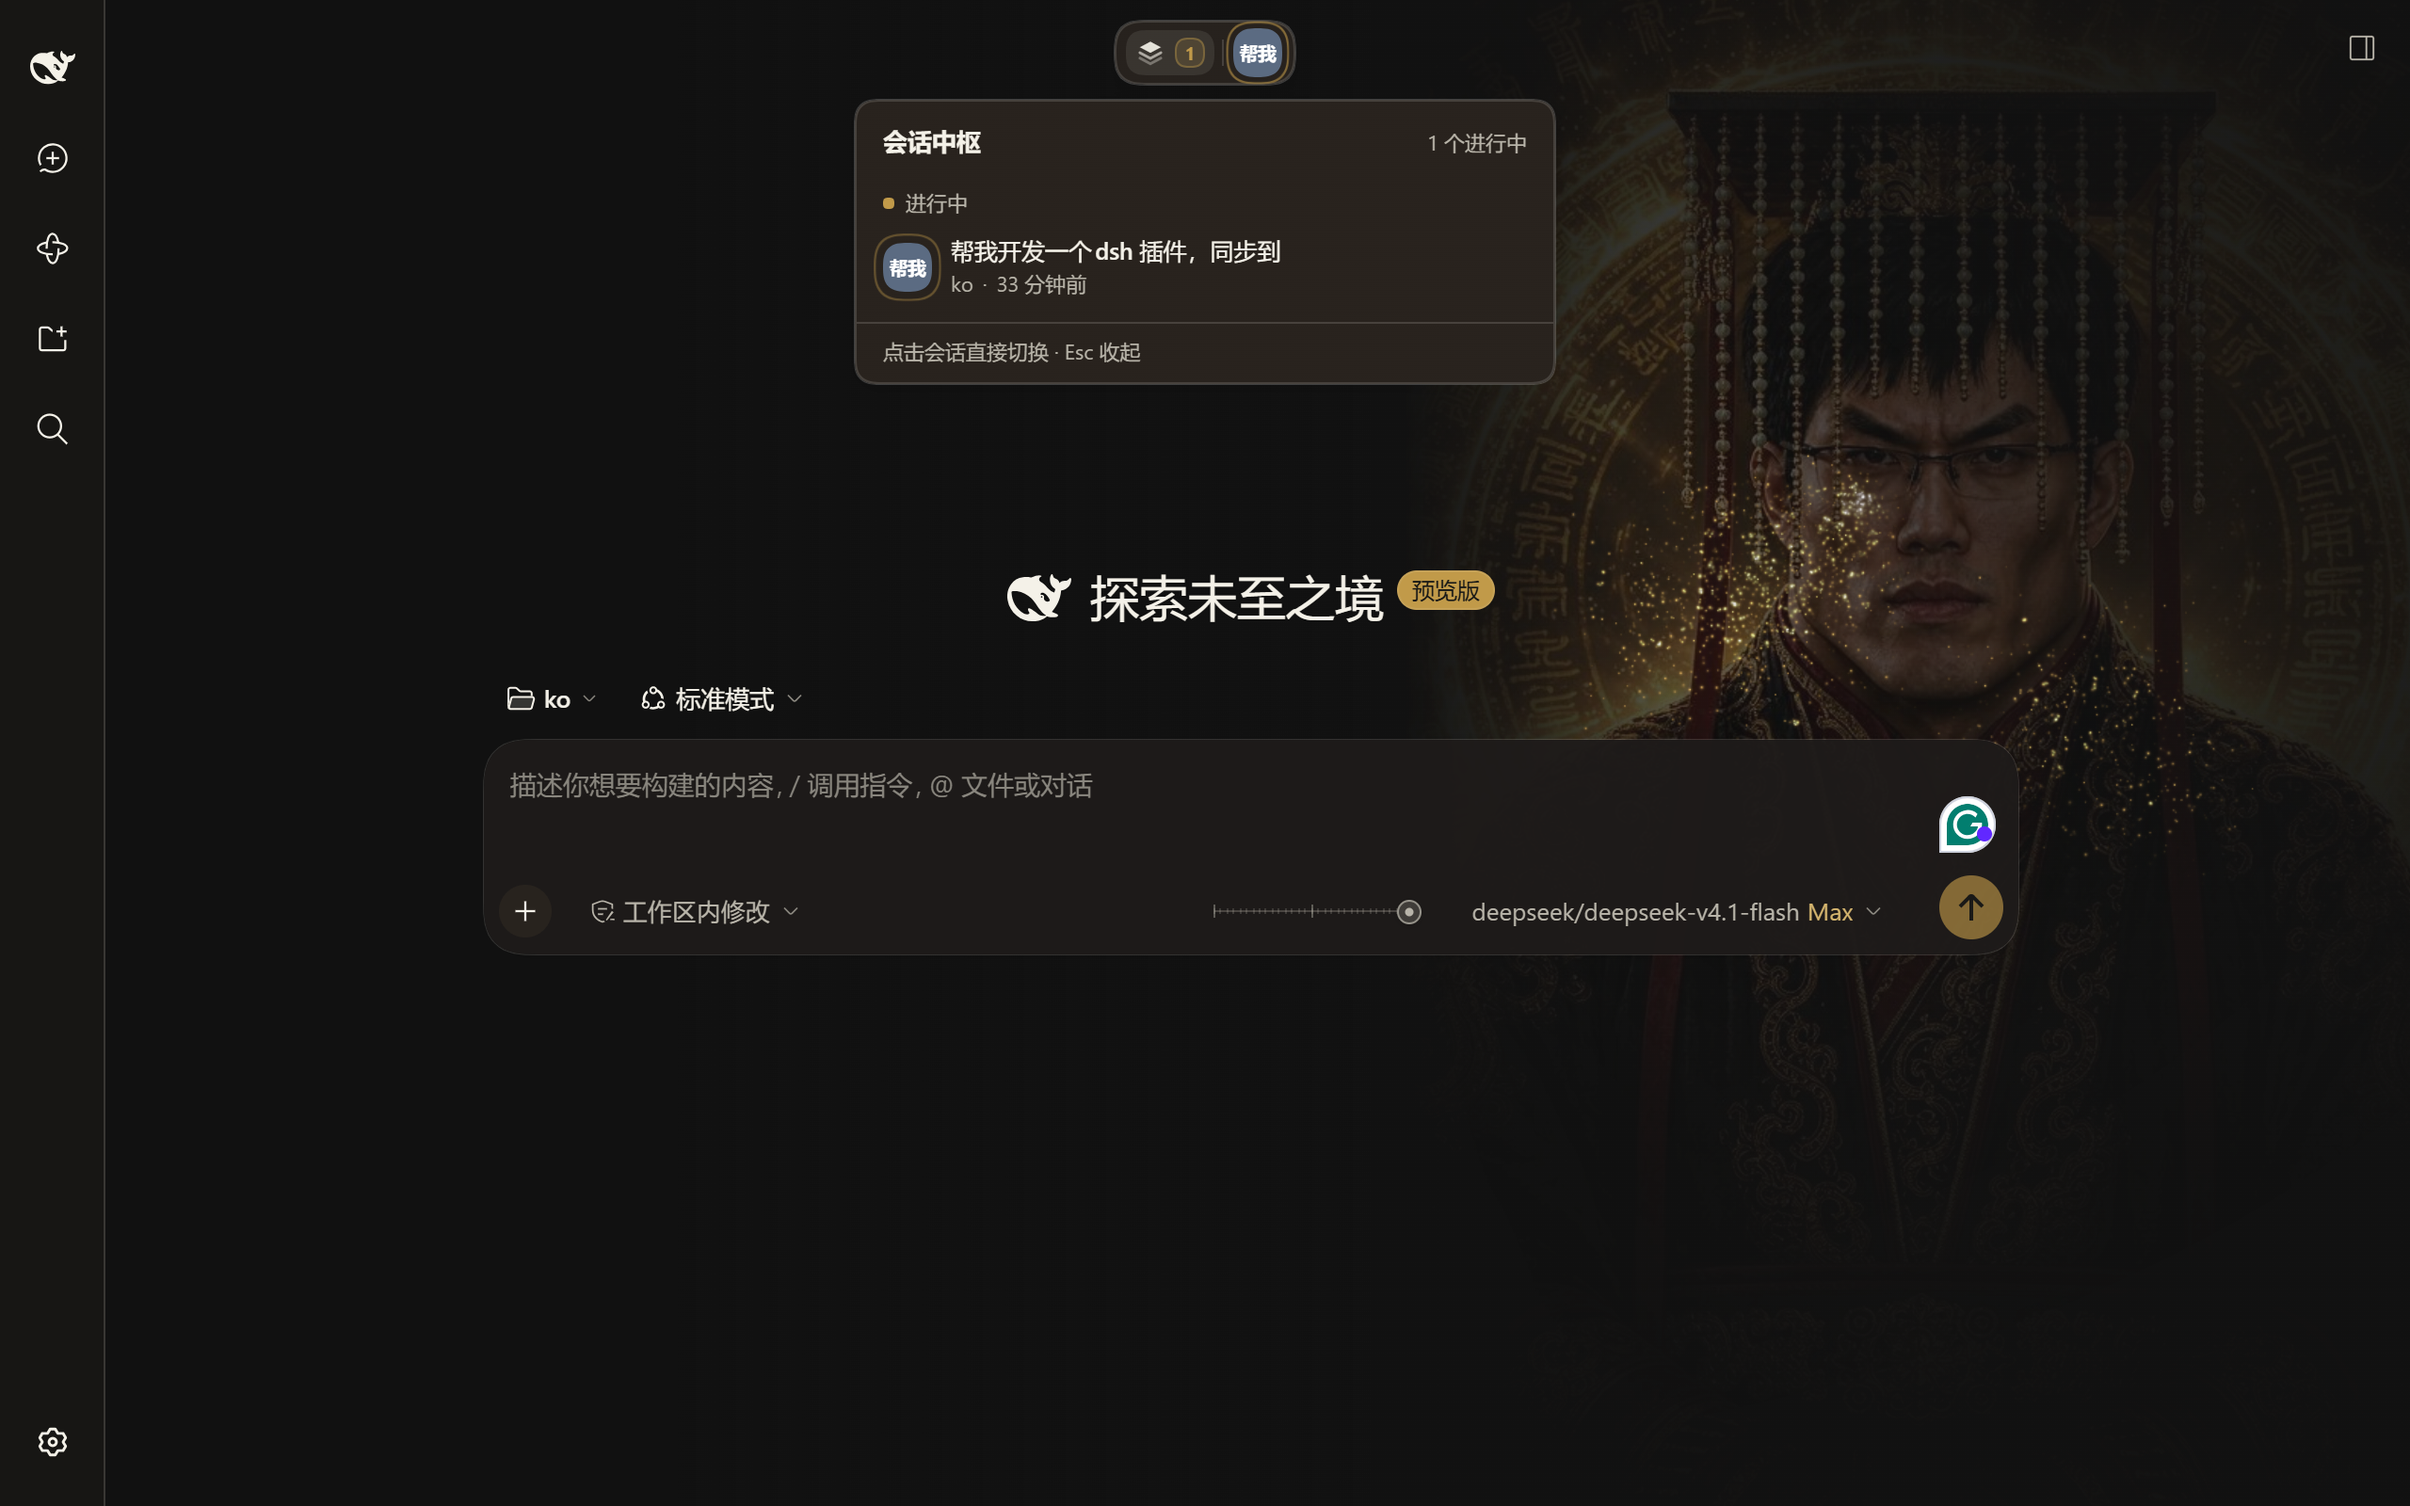
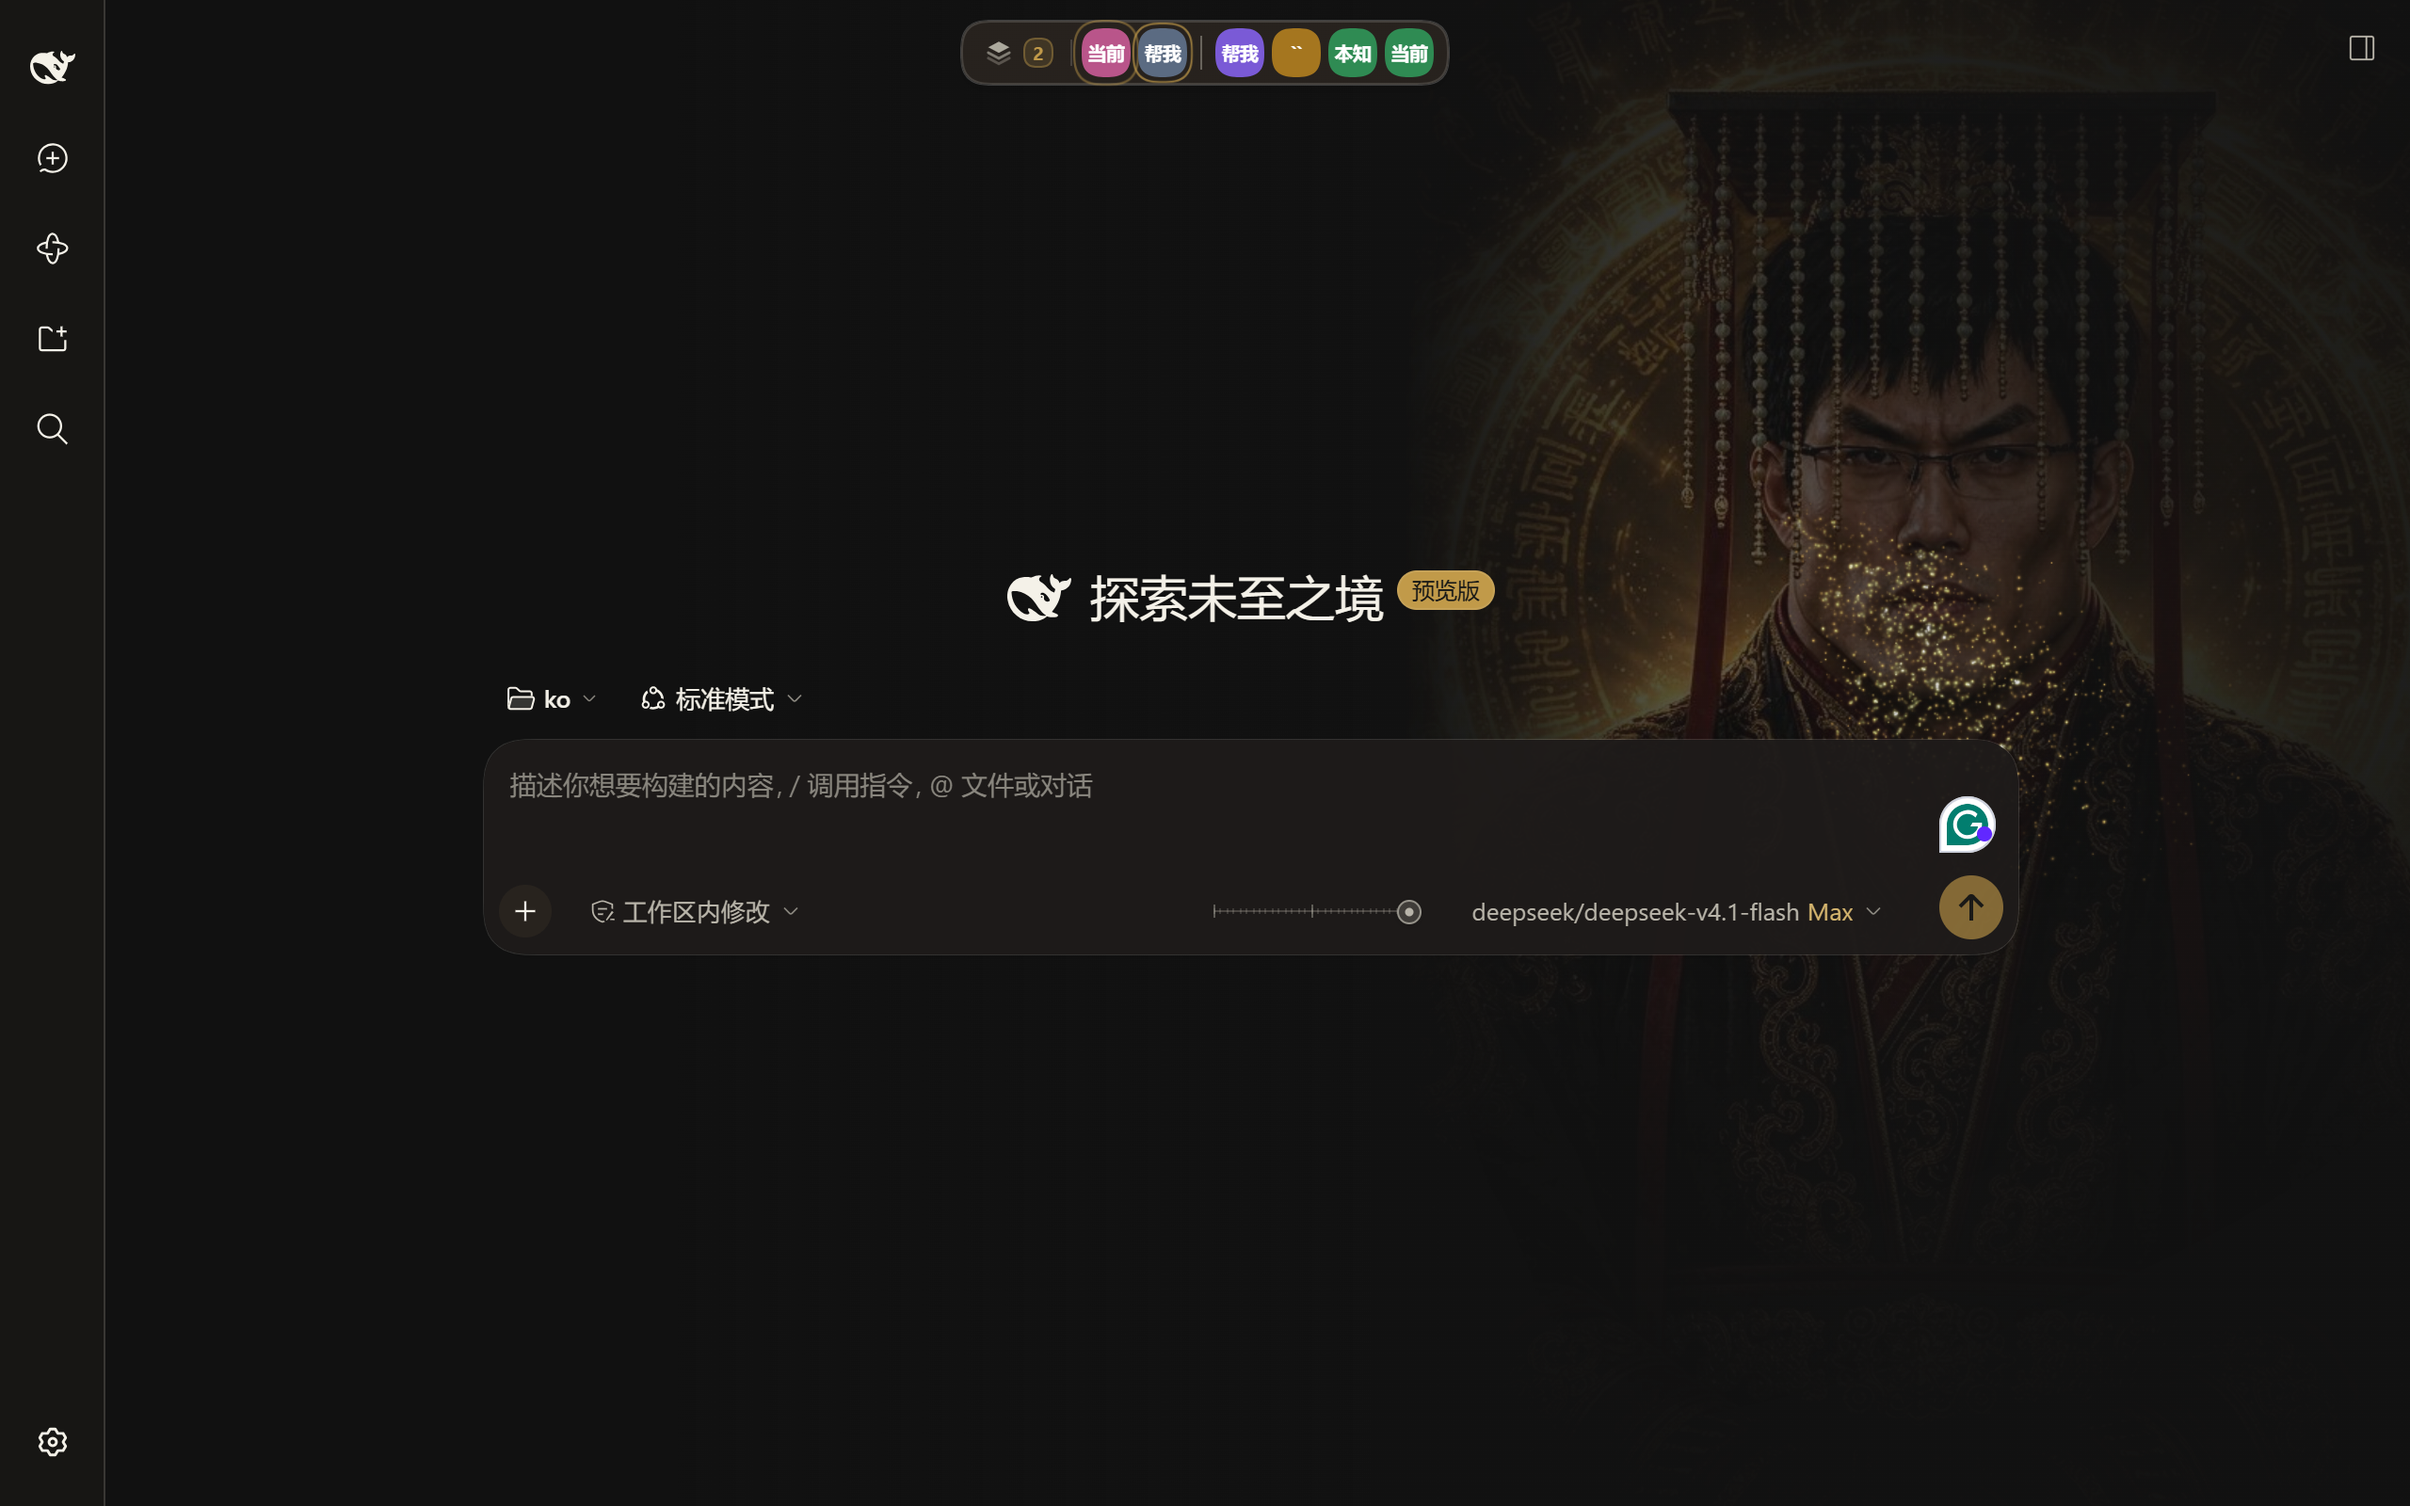
feat: add recently opened sessions and hover expansion
Show up to four recently opened sessions in a separate group to the right of the active group, separated by a vertical divider. The island records main-view changes in local storage and fills the group from recent activity while that history is short. Hovering widens the pill by 6px on each side without scaling the avatars, and the attention badge is only rendered when an active session needs it.

diff --git a/client.js b/client.js
@@ -31,8 +31,10 @@ const EN = {
   headingRunningOnly: '{count} running',
   headingDoneOnly: '{count} just finished',
   headingBoth: '{running} running · {done} just finished',
+  headingRecentOnly: '{count} recently opened',
   groupRunning: 'In progress',
   groupDone: 'Just finished',
+  groupRecent: 'Recently opened',
   current: 'Current',
   ungrouped: 'Ungrouped',
   justNow: 'just now',
@@ -42,6 +44,7 @@ const EN = {
   openSession: 'Switch to {title}',
   statusRunning: 'In progress',
   statusDone: 'Finished, not viewed',
+  statusRecent: 'Recently opened',
   footHint: 'Click a session to switch · Esc to close',
   moreSessions: '{count} more sessions',
   badgeLabel: '{count} sessions need attention',
@@ -55,8 +58,10 @@ const ZH = {
   headingRunningOnly: '{count} 个进行中',
   headingDoneOnly: '{count} 个刚完成',
   headingBoth: '{running} 个进行中 · {done} 个刚完成',
+  headingRecentOnly: '{count} 个最近打开',
   groupRunning: '进行中',
   groupDone: '刚刚完成',
+  groupRecent: '最近打开',
   current: '当前',
   ungrouped: '未分组',
   justNow: '刚刚',
@@ -66,6 +71,7 @@ const ZH = {
   openSession: '切换到 {title}',
   statusRunning: '进行中',
   statusDone: '已完成，未查看',
+  statusRecent: '最近打开',
   footHint: '点击会话直接切换 · Esc 收起',
   moreSessions: '还有 {count} 个会话',
   badgeLabel: '{count} 个会话需要关注',
@@ -75,6 +81,13 @@ const ZH = {
 const TINTS = ['#3b6fd4', '#7a5ad6', '#2a8b8b', '#c2624a', '#2f8b53', '#a5761f', '#b9558a', '#5b6b82'];
 
 const MAX_CHIPS = 5;
+
+/** Recently opened sessions shown to the right of the active group. */
+const RECENT_LIMIT = 4;
+
+/** Persisted identity list; only this browser's session ids are stored. */
+const RECENT_STORE_KEY = 'dsh-session-hub:recent';
+const RECENT_STORE_MAX = 12;
 
 const CSS = `
 .dsh-sh-root {
@@ -95,7 +108,7 @@ const CSS = `
   display: flex;
   align-items: center;
   height: 34px;
-  padding: 0 5px;
+  padding: 0 6px;
   border: 1px solid var(--dsw-alias-border-l1);
   border-radius: 999px;
   background:
@@ -104,11 +117,17 @@ const CSS = `
   box-shadow: var(--dsw-elevation-prominent, 0 6px 20px rgb(0 0 0 / 22%));
   cursor: pointer;
   user-select: none;
-  transition: border-color 160ms ease, box-shadow 160ms ease;
+  transition:
+    padding 200ms cubic-bezier(0.22, 0.8, 0.28, 1),
+    border-color 160ms ease,
+    box-shadow 160ms ease;
 }
 .dsh-sh-pill:hover,
+.dsh-sh-pill:focus-within,
 .dsh-sh-pill[data-expanded="true"] {
-  border-color: var(--dsw-alias-border-l2);
+  padding-right: 12px;
+  padding-left: 12px;
+  border-color: color-mix(in srgb, var(--dsw-alias-label-secondary) 45%, transparent);
 }
 
 .dsh-sh-trigger {
@@ -165,6 +184,11 @@ const CSS = `
   height: 14px;
   margin: 0 4px;
   background: var(--dsw-alias-border-l1);
+}
+.dsh-sh-sep[data-strong="true"] {
+  height: 18px;
+  margin: 0 6px;
+  background: color-mix(in srgb, var(--dsw-alias-label-secondary) 45%, transparent);
 }
 
 .dsh-sh-chips {
@@ -342,6 +366,9 @@ const CSS = `
 }
 .dsh-sh-groupDot[data-kind="done"] {
   background: var(--dsw-alias-state-success-primary);
+}
+.dsh-sh-groupDot[data-kind="recent"] {
+  background: var(--dsw-alias-state-idle-primary);
 }
 
 .dsh-sh-row {
@@ -563,6 +590,26 @@ function pickChips(running, done) {
   return [...running.slice(0, runningQuota), ...done.slice(0, limit - Math.min(runningQuota, running.length))];
 }
 
+function readRecentIds() {
+  try {
+    const raw = window.localStorage.getItem(RECENT_STORE_KEY);
+    if (raw === null) return [];
+    const parsed = JSON.parse(raw);
+    if (!Array.isArray(parsed)) return [];
+    return parsed.filter((id) => typeof id === 'string' && id.length > 0).slice(0, RECENT_STORE_MAX);
+  } catch {
+    return [];
+  }
+}
+
+function writeRecentIds(ids) {
+  try {
+    window.localStorage.setItem(RECENT_STORE_KEY, JSON.stringify(ids.slice(0, RECENT_STORE_MAX)));
+  } catch {
+    /* storage can be unavailable (private mode, quota); the in-memory list still works */
+  }
+}
+
 function SessionHub(props) {
   const { useSessions, useSessionStatus, useWorkspaces, t, openSession } = props;
   const translate = typeof t === 'function' ? t : (key) => key;
@@ -574,6 +621,7 @@ function SessionHub(props) {
   const archivedIds = useWorkspaces((snapshot) => snapshot.archivedSessionIds);
 
   const [expanded, setExpanded] = React.useState(false);
+  const [recentIds, setRecentIds] = React.useState(readRecentIds);
   const [now, setNow] = React.useState(() => Date.now());
   const rootRef = React.useRef(null);
   const triggerRef = React.useRef(null);
@@ -588,6 +636,16 @@ function SessionHub(props) {
   }, [workspaceItems]);
 
   const archived = React.useMemo(() => new Set(archivedIds ?? []), [archivedIds]);
+
+  const fallbackRecentIds = React.useMemo(() => {
+    const rows = [];
+    for (const id of ids ?? []) {
+      const row = byId[id];
+      if (row) rows.push(row);
+    }
+    rows.sort((left, right) => (right.updatedAt ?? 0) - (left.updatedAt ?? 0));
+    return rows.map((row) => row.id);
+  }, [ids, byId]);
 
   let currentId;
   for (const id of ids ?? []) {
@@ -611,11 +669,41 @@ function SessionHub(props) {
   running.sort((left, right) => Number(right.isCurrent) - Number(left.isCurrent) || right.row.updatedAt - left.row.updatedAt);
   done.sort((left, right) => right.row.updatedAt - left.row.updatedAt);
 
+  const activeIds = new Set();
+  for (const item of running) activeIds.add(item.id);
+  for (const item of done) activeIds.add(item.id);
+
+  const recent = [];
+  const addRecent = (id) => {
+    if (recent.length >= RECENT_LIMIT) return;
+    if (id === currentId || activeIds.has(id) || archived.has(id)) return;
+    if (recent.some((item) => item.id === id)) return;
+    const row = byId[id];
+    if (!row || row.blank || row.origin === 'subagent') return;
+    recent.push({ id, row, kind: 'recent', isCurrent: false });
+  };
+  for (const id of recentIds) addRecent(id);
+  if (recent.length < RECENT_LIMIT) {
+    for (const id of fallbackRecentIds) addRecent(id);
+  }
+
   const switchable = running.filter((item) => !item.isCurrent).length + done.length;
-  const visible = switchable > 0;
+  const visible = switchable > 0 || recent.length > 0;
   const total = running.length + done.length;
   const chips = pickChips(running, done);
   const overflow = total - chips.length;
+
+  React.useEffect(() => {
+    if (typeof currentId !== 'string') return;
+    setRecentIds((previous) => {
+      if (previous[0] === currentId) return previous;
+      return [currentId, ...previous.filter((id) => id !== currentId)].slice(0, RECENT_STORE_MAX);
+    });
+  }, [currentId]);
+
+  React.useEffect(() => {
+    writeRecentIds(recentIds);
+  }, [recentIds]);
 
   React.useEffect(() => {
     if (!visible) return undefined;
@@ -657,7 +745,8 @@ function SessionHub(props) {
 
   const chipNode = (item) => {
     const title = titleOf(item);
-    const tooltip = `${title} · ${workspaceOf(item)} · ${translate(item.kind === 'running' ? 'statusRunning' : 'statusDone')}`;
+    const statusKey = item.kind === 'recent' ? 'statusRecent' : item.kind === 'done' ? 'statusDone' : 'statusRunning';
+    const tooltip = `${title} · ${workspaceOf(item)} · ${translate(statusKey)}`;
     return h(
       'button',
       {
@@ -665,6 +754,7 @@ function SessionHub(props) {
         type: 'button',
         className: 'dsh-sh-chip',
         style: { '--dsh-sh-tint': hashTint(item.id) },
+        'data-kind': item.kind,
         'data-running': item.kind === 'running' ? 'true' : undefined,
         'data-current': item.isCurrent ? 'true' : undefined,
         title: tooltip,
@@ -687,6 +777,7 @@ function SessionHub(props) {
         key: `row-avatar-${item.id}`,
         className: 'dsh-sh-chip',
         style: { '--dsh-sh-tint': hashTint(item.id) },
+        'data-kind': item.kind,
         'data-running': item.kind === 'running' ? 'true' : undefined,
         'data-current': item.isCurrent ? 'true' : undefined,
         'data-static': 'true',
@@ -729,7 +820,9 @@ function SessionHub(props) {
       ? translate('headingBoth', { running: running.length, done: done.length })
       : running.length > 0
         ? translate('headingRunningOnly', { count: running.length })
-        : translate('headingDoneOnly', { count: done.length });
+        : done.length > 0
+          ? translate('headingDoneOnly', { count: done.length })
+          : translate('headingRecentOnly', { count: recent.length });
 
   const panel = expanded
     ? h(
@@ -776,6 +869,19 @@ function SessionHub(props) {
                 done.map(rowNode),
               )
             : null,
+          recent.length > 0
+            ? h(
+                'div',
+                { className: 'dsh-sh-group', 'data-group': 'recent' },
+                h(
+                  'div',
+                  { className: 'dsh-sh-groupLabel' },
+                  h('span', { className: 'dsh-sh-groupDot', 'data-kind': 'recent', 'aria-hidden': true }),
+                  translate('groupRecent'),
+                ),
+                recent.map(rowNode),
+              )
+            : null,
         ),
         h('div', { className: 'dsh-sh-foot' }, translate('footHint')),
       )
@@ -794,6 +900,7 @@ function SessionHub(props) {
         'data-count': String(total),
         'data-running': String(running.length),
         'data-done': String(done.length),
+        'data-recent': String(recent.length),
         'data-expanded': expanded ? 'true' : 'false',
       },
       h(
@@ -813,34 +920,46 @@ function SessionHub(props) {
             className: 'dsh-sh-trigger',
             'aria-expanded': expanded,
             'aria-controls': expanded ? panelId : undefined,
-            'aria-label': translate('badgeLabel', { count: total }),
+            'aria-label': total > 0 ? translate('badgeLabel', { count: total }) : translate('triggerTitle'),
             title: expanded ? translate('triggerTitleOpen') : translate('triggerTitle'),
           },
           hubGlyph(h),
-          h('span', { className: 'dsh-sh-count', 'aria-hidden': true }, total > 9 ? '9+' : String(total)),
-        ),
-        h('span', { className: 'dsh-sh-sep', 'aria-hidden': true }),
-        h(
-          'div',
-          { className: 'dsh-sh-chips' },
-          chips.map(chipNode),
-          overflow > 0
-            ? h(
-                'button',
-                {
-                  type: 'button',
-                  className: 'dsh-sh-more',
-                  title: translate('moreSessions', { count: overflow }),
-                  'aria-label': translate('moreSessions', { count: overflow }),
-                  onClick: (event) => {
-                    event.stopPropagation();
-                    setExpanded((value) => !value);
-                  },
-                },
-                `+${overflow}`,
-              )
+          total > 0
+            ? h('span', { className: 'dsh-sh-count', 'aria-hidden': true }, total > 9 ? '9+' : String(total))
             : null,
         ),
+        chips.length > 0 || overflow > 0
+          ? h('span', { className: 'dsh-sh-sep', 'aria-hidden': true })
+          : null,
+        chips.length > 0 || overflow > 0
+          ? h(
+              'div',
+              { className: 'dsh-sh-chips' },
+              chips.map(chipNode),
+              overflow > 0
+                ? h(
+                    'button',
+                    {
+                      type: 'button',
+                      className: 'dsh-sh-more',
+                      title: translate('moreSessions', { count: overflow }),
+                      'aria-label': translate('moreSessions', { count: overflow }),
+                      onClick: (event) => {
+                        event.stopPropagation();
+                        setExpanded((value) => !value);
+                      },
+                    },
+                    `+${overflow}`,
+                  )
+                : null,
+            )
+          : null,
+        recent.length > 0
+          ? h('span', { className: 'dsh-sh-sep', 'data-strong': 'true', 'aria-hidden': true })
+          : null,
+        recent.length > 0
+          ? h('div', { className: 'dsh-sh-chips', 'data-group': 'recent' }, recent.map(chipNode))
+          : null,
         panel,
       ),
     ),
